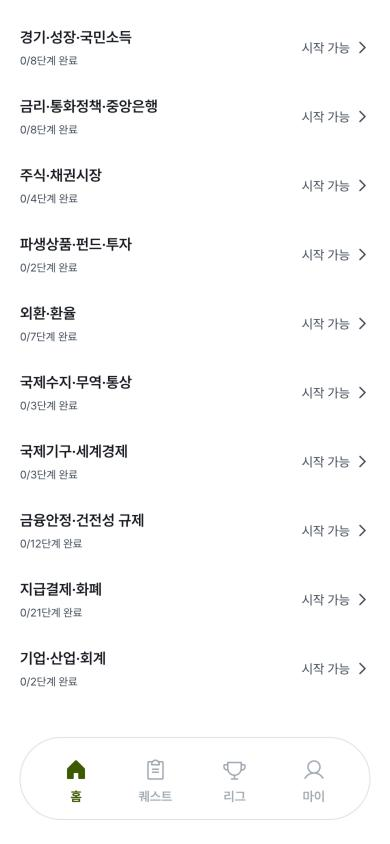
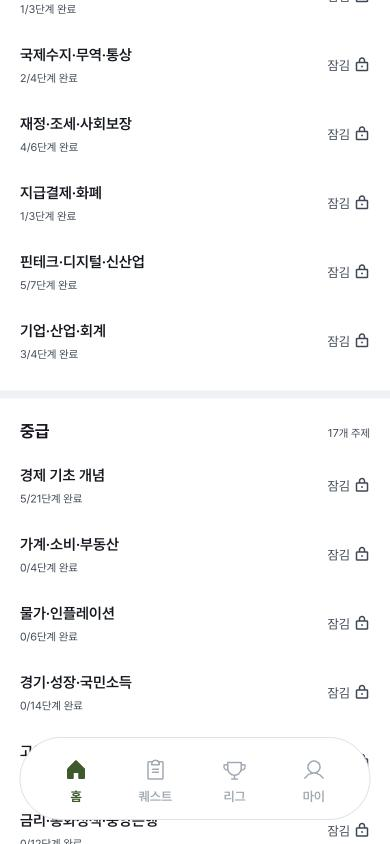
학습을 전체 순서(기초 모든 주제 → 중급 …)대로 하나씩만 열기, 홈은 앞 주제 3개(설명 제거)·난이도 뱃지를 그림 위로, 전체 주제 탭은 난이도마다 굵은 띠와 제목·주제 수로 구분, 잠김 표시는 '할 수 있는 단계 없음' 기준

diff --git a/src/pages/CourseScreen.tsx b/src/pages/CourseScreen.tsx
@@ -2,7 +2,7 @@ import React, { useMemo, useRef, useLayoutEffect, useEffect, useState } from 're
 import { BookOpenText, Check, ListChecks, LockKeyhole, RotateCcw } from '../components/ui/OtterIcons';
 import { List, ListRow } from '@toss/tds-mobile';
 import { TopicThumb } from '../components/TopicThumb';
-import { COURSE_NAMES, TOPIC_DESCRIPTIONS } from '../lib/topicImages';
+import { COURSE_NAMES } from '../lib/topicImages';
 import { ChevronRight } from '../components/ui/ControlIcons';
 import { useLocation, useNavigate, useSearchParams } from 'react-router-dom';
 import { useAppContext } from '../context/AppContext';
@@ -104,16 +104,16 @@ const CourseScreen = () => {
     return () => { cancelled = true; };
   }, []);
 
-  // 필수 단계(학습·퀴즈)는 같은 주제(카테고리) 안에서 기초→심화 코스 순서대로만 연다. 안 끝낸 첫 단계 뒤의 미완료 단계는 다음 난이도 코스까지 모두 잠근다. 복습은 선택이라 잠그지 않는다
+  // 필수 단계(학습·퀴즈)는 전체 학습 순서(기초의 모든 주제 → 중급 …, courses의 sort_order)대로만 연다.
+  // 안 끝낸 첫 단계 하나만 열고 그 뒤의 미완료 단계는 다른 주제·다음 난이도까지 모두 잠근다. 복습은 선택이라 잠그지 않는다
   const sections = useMemo(() => {
-    const opened = new Set<string>();
+    let opened = false;
     return buildPath(courses, knownIds).map(sec => {
-      const key = sec.course.category;
       return { ...sec, nodes: sec.nodes.map(node => {
         if (node.type === 'review') return node;
         const done = node.state === 'done' || (doneNodes.has(node.id) && node.state === 'available');
         if (done) return node;
-        if (!opened.has(key)) { opened.add(key); return node; }
+        if (!opened) { opened = true; return node; }
         return { ...node, state: 'locked' as const };
       }) };
     });
@@ -129,9 +129,14 @@ const CourseScreen = () => {
       level: parts[0]!.section.course.level,
       known: parts.reduce((sum, part) => sum + part.section.knownCount, 0),
       total: parts.reduce((sum, part) => sum + part.section.course.words.length, 0),
-      locked: parts[0]!.section.nodes[0]?.state === 'locked',
+      // 잠김 = 남은 필수 단계가 있는데 지금 할 수 있는 단계가 하나도 없음(전체 순서상 앞 코스를 덜 끝냄)
+      locked: (() => {
+        const steps = parts.flatMap(part => part.section.nodes).filter(node => node.type !== 'review');
+        const doneStep = (node: PathNode) => node.state === 'done' || (doneNodes.has(node.id) && node.state === 'available');
+        return steps.some(node => !doneStep(node)) && !steps.some(node => !doneStep(node) && node.state !== 'locked');
+      })(),
     };
-  }), [sections]);
+  }), [sections, doneNodes]);
   const requestedTopic = searchParams.get('topic');
   const topicIndex = requestedTopic !== null && /^\d+$/.test(requestedTopic) ? Number(requestedTopic) : -1;
   const activeTopic = isCatalog ? null : topics[topicIndex] ?? null;
@@ -377,29 +382,30 @@ const CourseScreen = () => {
           </ActionButton>}
         </section>
 
-        {/* 열린 주제 3개를 주제명별로 묶고, 그 아래에 난이도별 코스를 가로 카드로 둔다 */}
-        {[...new Set(topics.filter(topic => !topic.locked).map(topic => topic.category))].slice(0, 3).map(category => (
+        {/* 학습 순서상 앞 주제 3개를 주제명별로 묶고, 그 아래에 난이도별 코스를 가로 카드로 둔다(잠긴 코스는 자물쇠) */}
+        {[...new Set(topics.map(topic => topic.category))].slice(0, 3).map(category => (
           <section key={category} aria-label={category}>
             <div className="course-home-section-heading">
               <h2 className="type-section-title">{category}</h2>
-              {TOPIC_DESCRIPTIONS[category] && <p className="course-home-section-desc">{TOPIC_DESCRIPTIONS[category]}</p>}
             </div>
             <div className="course-home-rail" role="list" aria-label={`${category} 코스`}>
               {topics.filter(topic => topic.category === category).flatMap(topic => topic.parts.map(({ section }, pi) => {
                 const steps = section.nodes.filter(isStep);
                 const done = steps.filter(isDone).length;
-                const locked = section.nodes.every(node => node.state === 'locked');
+                // 잠김 = 남은 필수 단계가 있는데 지금 할 수 있는 단계가 없음(예전에 일부 푼 코스도 앞 코스를 끝내기 전엔 잠김)
+                const locked = done < steps.length && !steps.some(node => !isDone(node) && node.state !== 'locked');
                 const name = COURSE_NAMES[section.course.id] ?? (topic.parts.length > 1 ? `${topic.level} ${pi + 1}` : topic.level);
                 return (
                   <button key={section.course.id} type="button" role="listitem" className="course-home-rail-card" data-locked={locked}
                     onClick={() => navigate(`/course?topic=${topic.index}&course=${section.course.id}`)} aria-label={`${topic.level} ${name} 코스 열기, ${locked ? '잠김' : `${done}/${steps.length}단계 완료`}`}>
                     <span className="course-home-rail-thumb">
                       <TopicThumb category={category} size={160} height={120} />
+                      <span className="course-level-badge course-home-rail-level">{topic.level}</span>
                       {locked && <span className="course-home-rail-lock"><LockKeyhole size={20} aria-hidden="true" /></span>}
                     </span>
                     <span className="course-home-rail-text">
                       <span className="course-home-rail-title">{name}</span>
-                      <span className="course-home-rail-meta"><span className="course-level-badge">{topic.level}</span>{!locked && `${done}/${steps.length}단계`}</span>
+                      {!locked && <span className="course-home-rail-meta">{done}/{steps.length}단계</span>}
                     </span>
                   </button>
                 );
@@ -452,7 +458,7 @@ const CourseScreen = () => {
               const levelHeading = selectedLevel === '전체' && (i === 0 || visibleTopics[i - 1].level !== topic.level);
               // 같은 책 아이콘 반복 대신 상태 글자와 화살표만 둔다
               return <React.Fragment key={`${topic.level}-${topic.category}`}>
-              {levelHeading && <h3 className="course-home-level-heading">{topic.level}</h3>}
+              {levelHeading && <h3 className="course-home-level-heading">{topic.level}<span>{visibleTopics.filter(t => t.level === topic.level).length}개 주제</span></h3>}
               <ListRow as="button" border="none" disabled={locked} data-topic-index={topic.index} data-current={isCurrent || undefined}
                 onClick={() => navigate(`/course?topic=${topic.index}`)} aria-label={`${topic.level} ${topic.category} 주제 열기`} aria-describedby={`topic-summary-${topic.index}`} className="course-home-topic w-full"
                 contents={<span className="flex flex-col">

diff --git a/src/pages/CourseScreen.test.tsx b/src/pages/CourseScreen.test.tsx
@@ -176,6 +176,13 @@ describe('필수 단계 순차 잠금', () => {
     expect(container.querySelector('[data-node-id="c1-l3"]')).not.toBeDisabled();
   });
 
+  it('앞 주제를 덜 끝냈으면 다른 주제의 코스도 잠근다', async () => {
+    baseContext({ courses: [course({ id: 'c1', category: '경제 기초 개념' }), course({ id: 'c2', category: '가계', startId: 101 })], knownIds: new Set() });
+    state.doneNodes = new Set();
+    const { container } = await mount('/course?topic=1');
+    expect(container.querySelector('[data-node-id="c2-l0"]')).toBeDisabled();
+  });
+
   it('같은 주제의 다음 난이도 코스는 앞 코스를 끝낼 때까지 잠근다', async () => {
     const basic = course({ id: 'c1', wordCount: 4 });
     const mid = { ...course({ id: 'c2', wordCount: 4, startId: 101 }), level: '중급' };
@@ -407,16 +414,15 @@ describe('CourseScreen energy gates', () => {
     expect(container.textContent).toContain('단어 카드');
   });
 
-  it('포인트가 없어도 다른 주제의 첫 레슨을 시작한다', async () => {
+  it('포인트가 없어도 지금 순서인 첫 레슨을 에너지로 시작한다', async () => {
     baseContext({ points: 0, courses: [course({ category: '경제' }), course({ id: 'c2', category: '금융', startId: 5 })] });
-    const { container, clickButtonContaining } = await mount('/course?topic=1');
+    const { container, clickButtonContaining } = await mount('/course?topic=0');
     expect(container.textContent).toContain('코스 1/1');
-    expect(container.textContent).not.toContain('코스 2/1');
-    await clickButtonContaining('용어5');
+    await clickButtonContaining('용어1');
     await clickButtonContaining('시작하기');
     expect(container.textContent).toContain('단어 카드');
     expect(state.spendPoints).not.toHaveBeenCalled();
-    expect(state.spendEnergy).toHaveBeenCalledWith(1, 'lesson', 'c2-l0:5,6,7,8');
+    expect(state.spendEnergy).toHaveBeenCalledWith(1, 'lesson', 'c1-l0:1,2,3,4');
   });
 
   it('복습에서 틀렸어도 열람 진도가 있으면 다음 레슨은 잠기지 않는다', async () => {
@@ -428,13 +434,13 @@ describe('CourseScreen energy gates', () => {
     expect(container.textContent).toContain('단어 카드');
   });
 
-  it('홈의 이어 배우기는 마지막으로 시작한 주제로 이동한다', async () => {
+  it('홈의 이어 배우기는 다른 주제를 열어 둔 적이 있어도 전체 순서상 지금 할 코스로 이동한다', async () => {
     state.storage.set('learning_resume_course_v1', 'c2');
     baseContext({ courses: [course({ category: '경제' }), course({ id: 'c2', category: '금융', startId: 5 })], knownIds: new Set([5]) });
     const { container, clickButtonContaining } = await mount('/course');
     await clickButtonContaining('이어 배우기');
-    expect(container.textContent).toContain('용어5 외 3개');
-    expect(container.textContent).not.toContain('용어1 외 3개');
+    expect(container.textContent).toContain('용어1 외 3개');
+    expect(container.textContent).not.toContain('용어5 외 3개');
   });
 
   it('새 레슨 앞에 과거 용어 인출 문제가 있으면 먼저 퀴즈로 보낸다', async () => {

diff --git a/src/index.css b/src/index.css
@@ -1198,8 +1198,10 @@ button.review-aux-button:disabled { color: var(--color-ink-3); }
 .course-home-topic-list { display: block; padding: var(--space-2) 0; }
 .course-home-topic-list .course-home-topic { display: block; width: 100%; margin-left: 0; min-height: 0; padding: 0; border: 0; background: transparent; }
 .course-home-topic-list .course-home-topic > div { padding-left: 0; padding-right: 0; }
-.course-home-level-heading { padding: var(--space-5) 0 var(--space-1); color: var(--color-ink-3); font-size: var(--font-size-label); font-weight: var(--font-weight-semibold); }
-.course-home-level-heading:first-child { padding-top: var(--space-3); }
+/* 전체 탭 난이도 구분: 굵은 띠 + 섹션 제목 크기. 첫 난이도는 띠 없이 */
+.course-home-level-heading { display: flex; align-items: baseline; justify-content: space-between; margin: var(--space-4) calc(var(--space-5) * -1) 0; padding: var(--space-5) var(--space-5) var(--space-2); border-top: 8px solid var(--color-neutral-soft); color: var(--color-ink); font-size: var(--font-size-section-title); font-weight: var(--font-weight-bold); }
+.course-home-level-heading > span { color: var(--color-ink-3); font-size: var(--font-size-caption); font-weight: var(--font-weight-regular); }
+.course-home-level-heading:first-child { margin-top: 0; padding-top: var(--space-3); border-top: 0; }
 /* 퀘스트·리그·마이는 흰 바탕. 섹션 사이는 라벤더 띠 대신 구분선 */
 .quest-screen, .league-screen, .my-page-screen { background: var(--color-card); }
 .my-page-sections .my-page-panel.my-page-menu { padding-inline: 0; }
@@ -1214,8 +1216,9 @@ button.course-home-rail-card { width: 160px; flex-direction: column; align-items
 .course-home-rail-card[data-locked='true'] .topic-thumb { opacity: 0.45; filter: grayscale(1); }
 .course-home-rail-lock { position: absolute; top: 50%; left: 50%; display: flex; width: 40px; height: 40px; align-items: center; justify-content: center; border-radius: 50%; background: var(--color-card); color: var(--color-ink-2); transform: translate(-50%, -50%); }
 .course-topic-course-meta { display: flex; align-items: center; gap: var(--space-1); color: var(--color-ink-3); font-size: var(--font-size-caption); }
+/* 홈 코스 카드: 난이도 뱃지는 그림 왼쪽 위에 얹는다 */
+.course-home-rail-level { position: absolute; top: var(--space-2); left: var(--space-2); background: var(--color-card); }
 .course-level-badge { padding: 2px var(--space-2); border-radius: var(--shape-sm); background: var(--color-surface); color: var(--color-ink-2); font-size: var(--font-size-caption); font-weight: var(--font-weight-semibold); }
-.course-home-section-desc { margin: 2px 0 0; color: var(--color-ink-3); font-size: var(--font-size-caption); }
 /* 주제 썸네일(홈 카드·뉴스). 사진이 없으면 회색 바탕 + 첫 글자 */
 .topic-thumb { flex-shrink: 0; border-radius: var(--shape-inset); object-fit: cover; background: var(--color-surface); }
 .topic-thumb-fallback { display: inline-flex; align-items: center; justify-content: center; color: var(--color-ink-3); font-size: var(--font-size-label); font-weight: var(--font-weight-bold); }

diff --git a/src/lib/topicImages.ts b/src/lib/topicImages.ts
@@ -13,26 +13,6 @@ export const TOPIC_IMAGES: Record<string, string> = {
 export const topicOfWord = (wordId: number, courses: { category: string; words: { id: number }[] }[]) =>
   courses.find(course => course.words.some(w => w.id === wordId))?.category;
 
-// 홈 주제 카드 한 줄 설명. 난이도와 상관없이 주제 단위로 둔다
-export const TOPIC_DESCRIPTIONS: Record<string, string> = {
-  '경제 기초 개념': '기회비용, 수요와 공급처럼 경제를 보는 기본 틀',
-  '가계·소비·부동산': '소득과 소비부터 대출 규제, 집값까지 살림 이야기',
-  '물가·인플레이션': '장바구니 물가가 오르내리는 이유와 물가 지표',
-  '경기·성장·국민소득': 'GDP와 경기 지표로 보는 나라 경제의 체력',
-  '고용·노동·분배': '일자리, 임금, 실업률과 소득 분배',
-  '금리·통화정책·중앙은행': '기준금리를 정하는 한국은행과 시중의 돈',
-  '주식·채권시장': '주가지수, 공시, 국채와 회사채가 움직이는 시장',
-  '파생상품·펀드·투자': 'ETF, 펀드, 선물·옵션 같은 투자 상품',
-  '외환·환율': '환율이 오르내리는 이유와 원화 강세·약세',
-  '국제수지·무역·통상': '수출입, 관세, 경상수지로 보는 나라 밖 거래',
-  '재정·조세·사회보장': '세금과 나라 살림, 국민연금 같은 사회보장',
-  '지급결제·화폐': '카드, 계좌이체처럼 돈이 실제로 오가는 방법',
-  '핀테크·디지털·신산업': '간편 송금, 가상자산, AI가 바꾸는 금융',
-  '기업·산업·회계': '순이익, 손익분기점으로 기업 실적 읽기',
-  '은행·금융제도': '은행이 하는 일과 금융회사를 묶는 규칙',
-  '국제기구·세계경제': 'IMF, OECD, 신용등급으로 보는 세계 경제',
-  '금융안정·건전성 규제': '금융위기를 막는 자기자본비율 같은 안전장치',
-};
 
 // 홈 코스 카드 이름: 코스에 든 용어로 지은 짧은 이름. 없으면 난이도로 대신한다
 export const COURSE_NAMES: Record<string, string> = {

diff --git a/DESIGN.md b/DESIGN.md
@@ -74,7 +74,7 @@
 
 **주제 썸네일(2026-11-04)**
 
-- 홈은 열린 주제 3개를 주제명 섹션으로 나누고(제목 + 한 줄 설명 `TOPIC_DESCRIPTIONS`), 그 아래에 난이도별 코스 카드(160x120 주제 그림 + 코스 이름 `COURSE_NAMES` + 난이도·단계/잠김)를 가로로 둔다. 맨 아래 "전체 주제 보기". 단어 카드 뉴스는 40px 정사각 그림(`TopicThumb`). 15개 주제는 달리 장면 일러스트(`public/topics/scenes/topic-<slug>.svg`, 240x180, 정사각으로 가운데를 잘라 씀), 장면이 없는 은행·금융제도, 핀테크·디지털·신산업 2개만 Unsplash 사진(`public/topics/SOURCES.md`).
+- 홈은 학습 순서상 앞 주제 3개를 주제명 섹션으로 나누고(제목만), 그 아래에 코스 카드(160x120 주제 그림 왼쪽 위에 난이도 뱃지, 아래 코스 이름 `COURSE_NAMES` + 단계, 잠긴 코스는 흐린 그림 + 자물쇠)를 가로로 둔다. 학습은 전체 순서(기초의 모든 주제 → 중급 …)대로 하나씩만 열린다. 맨 아래 "전체 주제 보기". 단어 카드 뉴스는 40px 정사각 그림(`TopicThumb`). 15개 주제는 달리 장면 일러스트(`public/topics/scenes/topic-<slug>.svg`, 240x180, 정사각으로 가운데를 잘라 씀), 장면이 없는 은행·금융제도, 핀테크·디지털·신산업 2개만 Unsplash 사진(`public/topics/SOURCES.md`).
 - 그림이 없는 주제는 회색 바탕에 주제 첫 글자를 둔다. 새 주제는 장면 일러스트로 추가한다(`docs/character/topics/`).
 - 카드는 그림자 없이 그림과 글자만 둔다. 기사 원문 사진은 언론사 저작물이라 쓰지 않는다.
 
